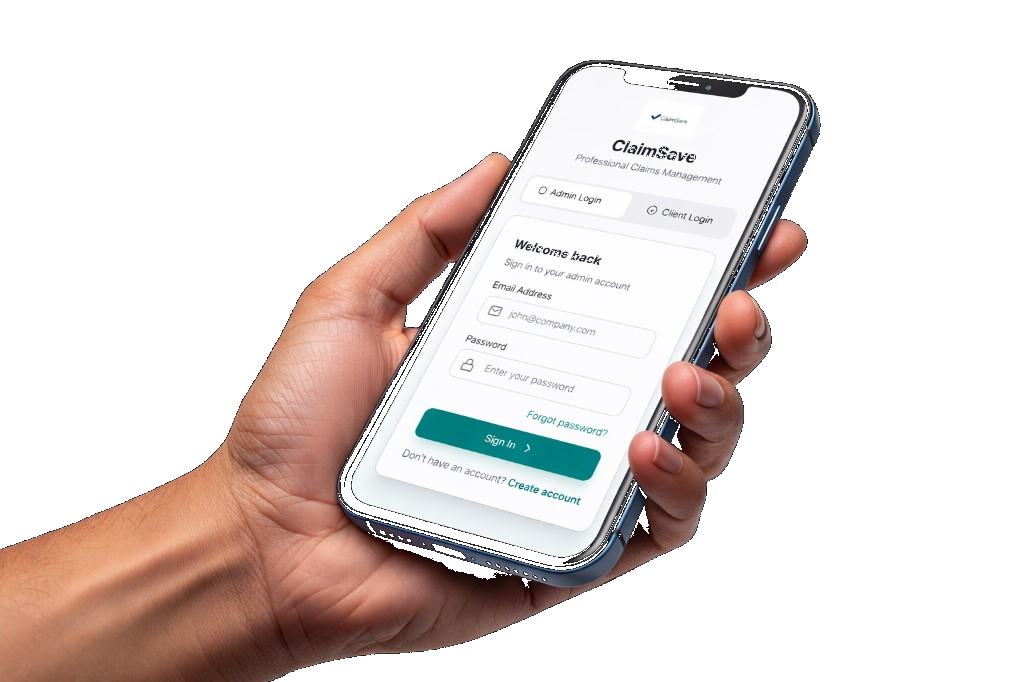
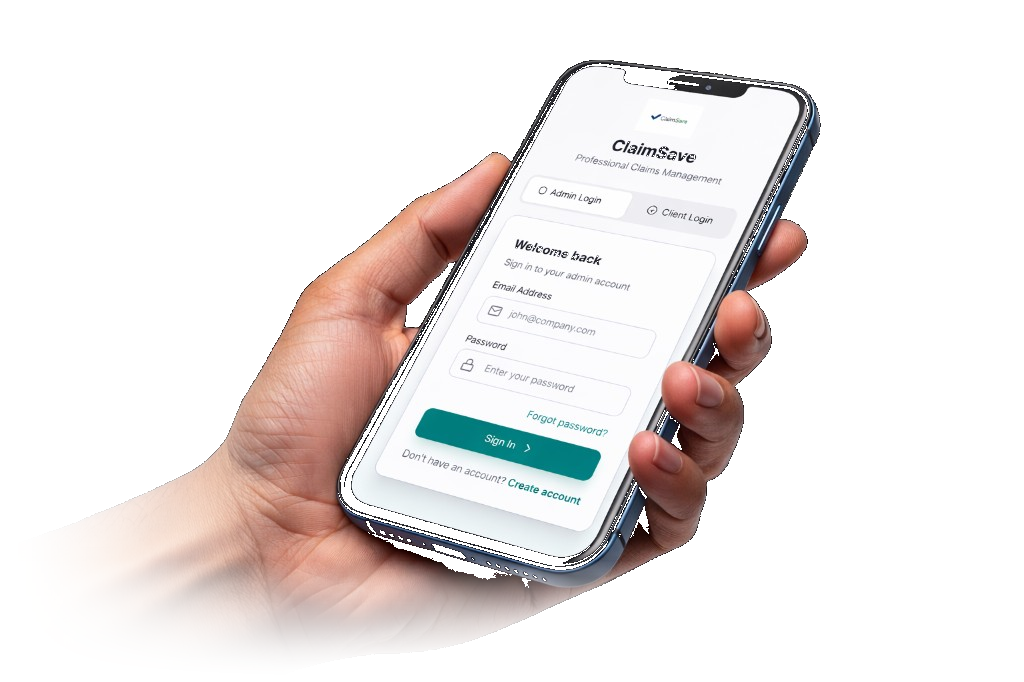
Feather phone image edges at pixel level and remove CSS mask

Changed region(s): [[0.0, 0.5543, 0.625, 1.0]]

diff --git a/index.html b/index.html
@@ -1091,14 +1091,6 @@
       display: block;
       filter: drop-shadow(0 25px 80px rgba(0,0,0,0.5));
       transform: scale(1.1);
-      -webkit-mask-image:
-        linear-gradient(to right, transparent 0%, transparent 10%, rgba(0,0,0,0.05) 15%, rgba(0,0,0,0.15) 20%, rgba(0,0,0,0.35) 25%, rgba(0,0,0,0.6) 32%, rgba(0,0,0,0.85) 40%, black 50%),
-        linear-gradient(to top, transparent 0%, rgba(0,0,0,0.3) 8%, rgba(0,0,0,0.7) 15%, black 25%);
-      -webkit-mask-composite: destination-in;
-      mask-image:
-        linear-gradient(to right, transparent 0%, transparent 10%, rgba(0,0,0,0.05) 15%, rgba(0,0,0,0.15) 20%, rgba(0,0,0,0.35) 25%, rgba(0,0,0,0.6) 32%, rgba(0,0,0,0.85) 40%, black 50%),
-        linear-gradient(to top, transparent 0%, rgba(0,0,0,0.3) 8%, rgba(0,0,0,0.7) 15%, black 25%);
-      mask-composite: intersect;
     }
     .mobile-glow-1 {
       position: absolute;
@@ -1158,13 +1150,7 @@
         max-width: 400px;
         margin: 0 auto;
       }
-      .phone-container .phone-screen {
-        width: 100%; max-width: 100%; transform: none;
-        -webkit-mask-image: linear-gradient(to top, transparent 0%, black 15%);
-        -webkit-mask-composite: source-over;
-        mask-image: linear-gradient(to top, transparent 0%, black 15%);
-        mask-composite: add;
-      }
+      .phone-container .phone-screen { width: 100%; max-width: 100%; transform: none; }
     }
     @media (max-width: 480px) {
       .phone-container { max-width: 320px; }
